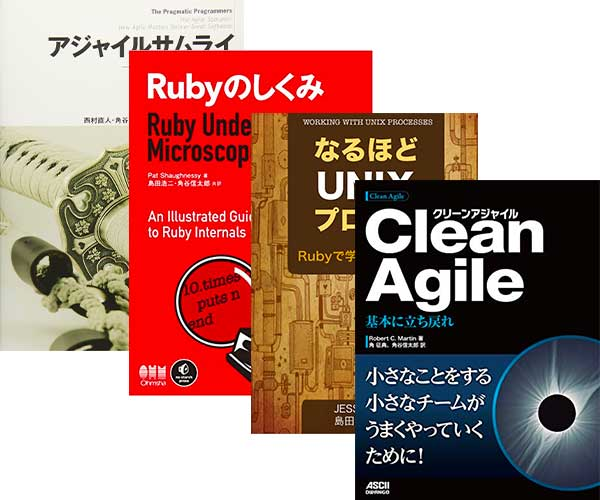
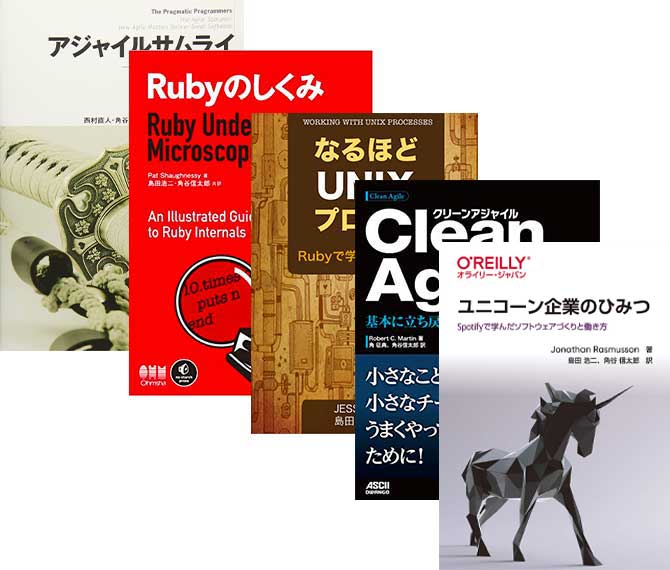
ユニコーン企業のひみつの画像を追加、メンター一覧の微調整

diff --git a/app/assets/stylesheets/welcome/_welcome-member.sass b/app/assets/stylesheets/welcome/_welcome-member.sass
@@ -81,5 +81,5 @@
     width: 8.25rem
   .has-a-book
     width: 5rem
-  .has-4-books
-    width: 9rem
+  .has-5-books
+    width: 10rem
